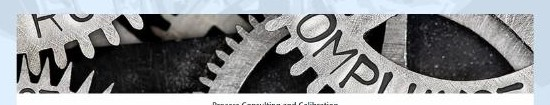
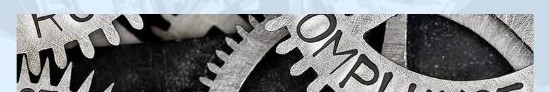
Clean up screenshot-artifact images
- Remove machinery-bg.jpg page background (a screenshot of the old
  homepage); use a clean solid light-blue instead, killing the ghost
  text/watermark behind content sitewide
- Crop baked-in caption off consulting.jpg
- Delete unused bioprocess.png and machinery-bg.jpg
- Correct .page min-height offset to match 94px header

diff --git a/assets/styles.css b/assets/styles.css
@@ -7,7 +7,7 @@ a{color:var(--blue);text-decoration:none} a:hover{text-decoration:underline}
 .nav{position:fixed;right:0;top:76px;width:min(360px,90vw);background:#fff;box-shadow:0 10px 25px #0004;padding:18px 26px;display:none;z-index:30}.nav.open{display:block}.nav a{display:block;padding:8px 0;border-bottom:1px solid #dde4ed;font-weight:600}
 .hero{min-height:230px;background:linear-gradient(#000000fa,#000000fa),url('hero-process.jpg') center/cover;display:flex;align-items:center}.hero .inner{width:min(1100px,90vw);margin:auto;color:#fff}.hero h1{font-size:clamp(20px,2.6vw,34px);font-weight:600;letter-spacing:.4px;line-height:1.15;margin:0 0 14px;max-width:850px}.hero p{font-size:18px;max-width:700px}
 .page-head{background:var(--blue);color:#fff;padding:30px 0}.page-head .inner{width:min(1100px,92vw);margin:auto}.page-head h1{margin:0;font-size:34px;font-weight:600;letter-spacing:.5px}.page-head .lead{margin:8px 0 0;color:#dfeafb;font-size:18px}
-.page{background:linear-gradient(#dce9f7e8,#dce9f7e8),url('machinery-bg.jpg') center top/cover fixed;min-height:calc(100vh - 76px)}
+.page{background:#dce9f7;min-height:calc(100vh - 94px)}
 .container{width:min(1100px,92vw);margin:auto;padding:44px 0}.section{padding:30px 0;border-bottom:1px solid #8da0b544}.section:last-child{border:0}.section h1,.section h2,.section h3{line-height:1.15;margin-top:0}.section h1{font-size:38px}.section h2{font-size:28px}.section h3{font-size:21px}.lead{font-size:18px}.grid{display:grid;gap:28px}.grid.three{grid-template-columns:repeat(3,1fr)}.grid.two{grid-template-columns:repeat(2,1fr)}
 .card{background:#ffffffd9;border:1px solid #9aacbf;border-radius:5px;padding:23px;box-shadow:0 3px 10px #2341}.card h3{margin-bottom:8px}.card ul{margin-top:8px;padding-left:22px}.feature{background:#fff;padding:0;overflow:hidden}.feature img{display:block;width:100%;aspect-ratio:2.4/1;object-fit:cover}.feature .copy{padding:18px 22px}.button{display:inline-block;background:var(--blue);color:#fff;padding:11px 17px;border-radius:3px;font-weight:bold}.button:hover{text-decoration:none;filter:brightness(.93)}
 .banner-image{width:100%;max-height:560px;object-fit:cover;display:block;background:#fff}.section h2.section-title{font-size:25px;font-weight:600;letter-spacing:.5px;margin-top:20px}.callout{background:var(--gold);display:inline;padding:2px 4px}.service-menu{border:1px solid #6b7d92;border-radius:5px;padding:16px;background:#dce9f799}.service-menu ul{columns:2;margin:7px 0}.faq{margin:18px 0}.faq h3{margin-bottom:4px}.checks{display:grid;grid-template-columns:1fr 1fr;gap:12px}.check{background:#fff;padding:14px 16px;border-left:4px solid var(--blue)}
